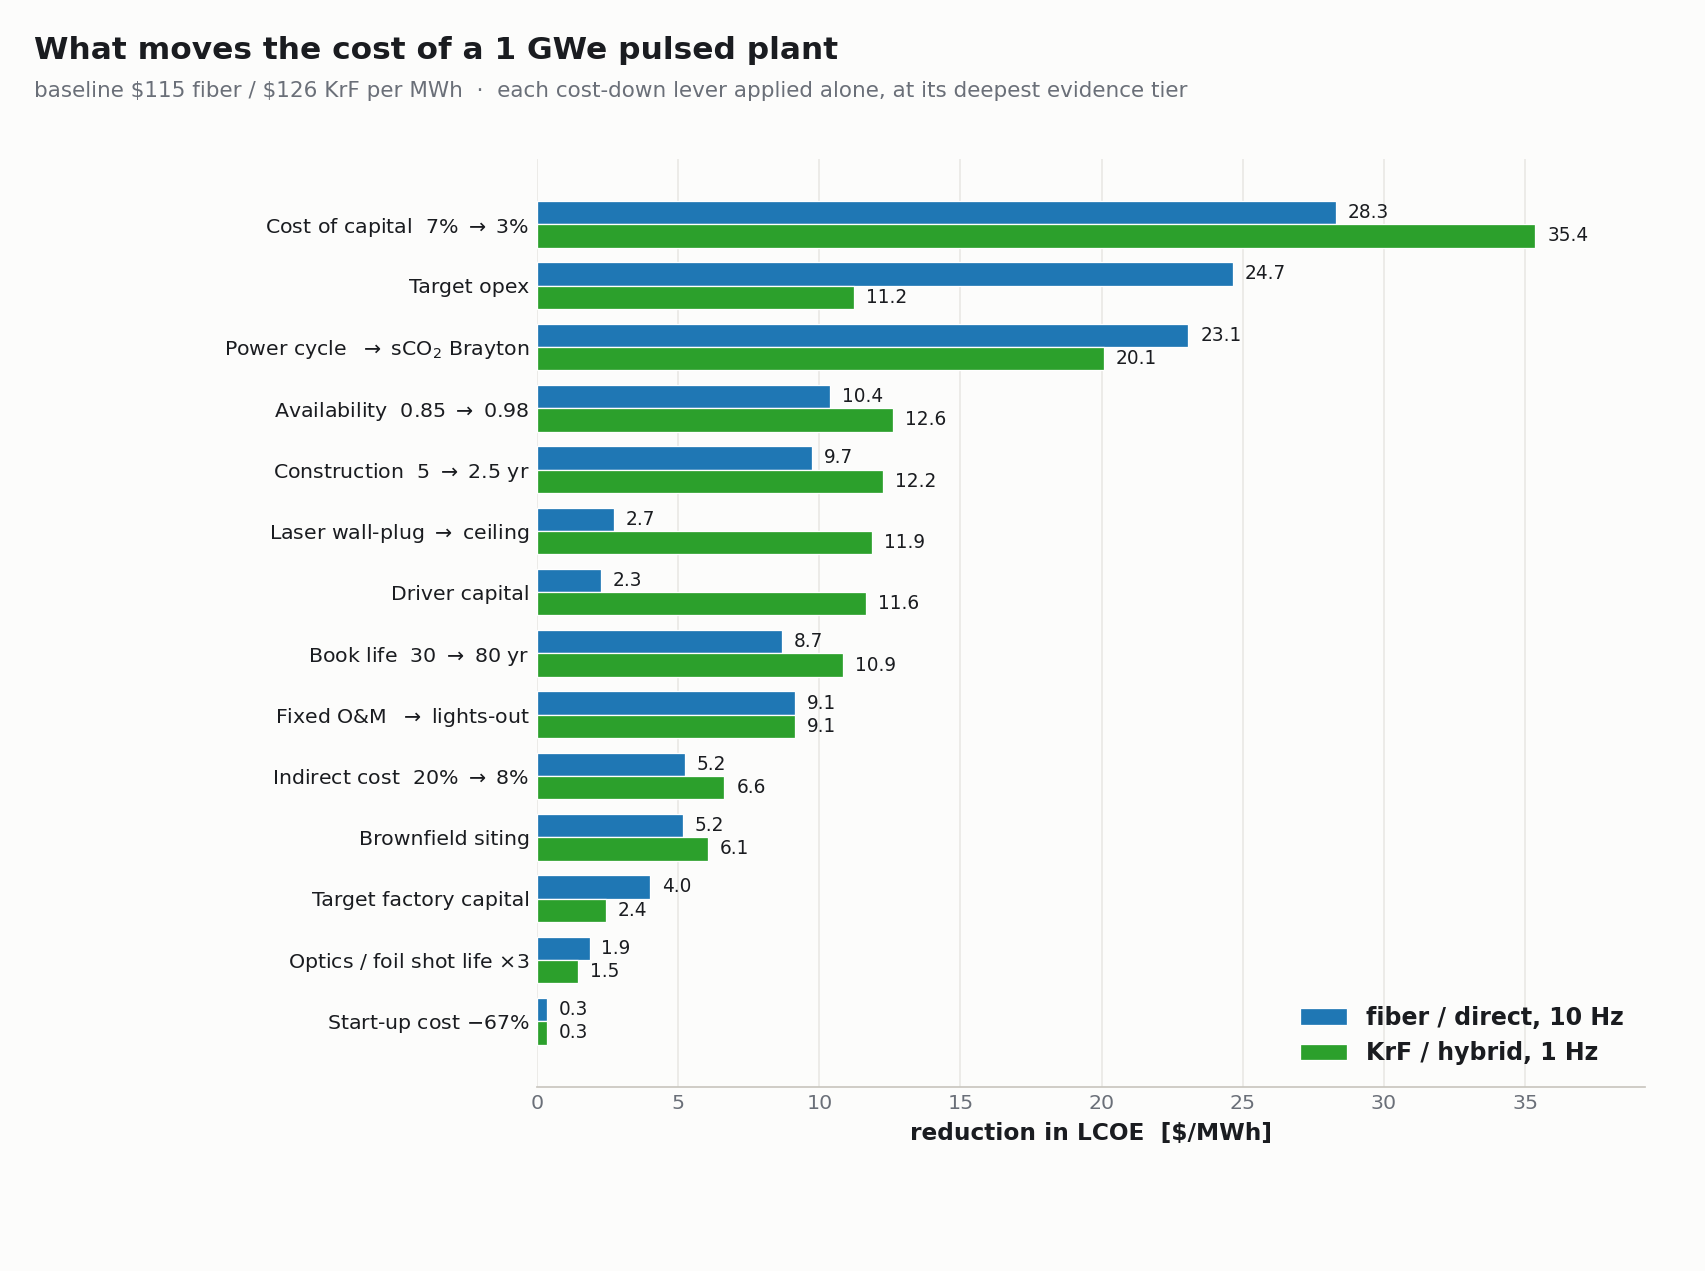
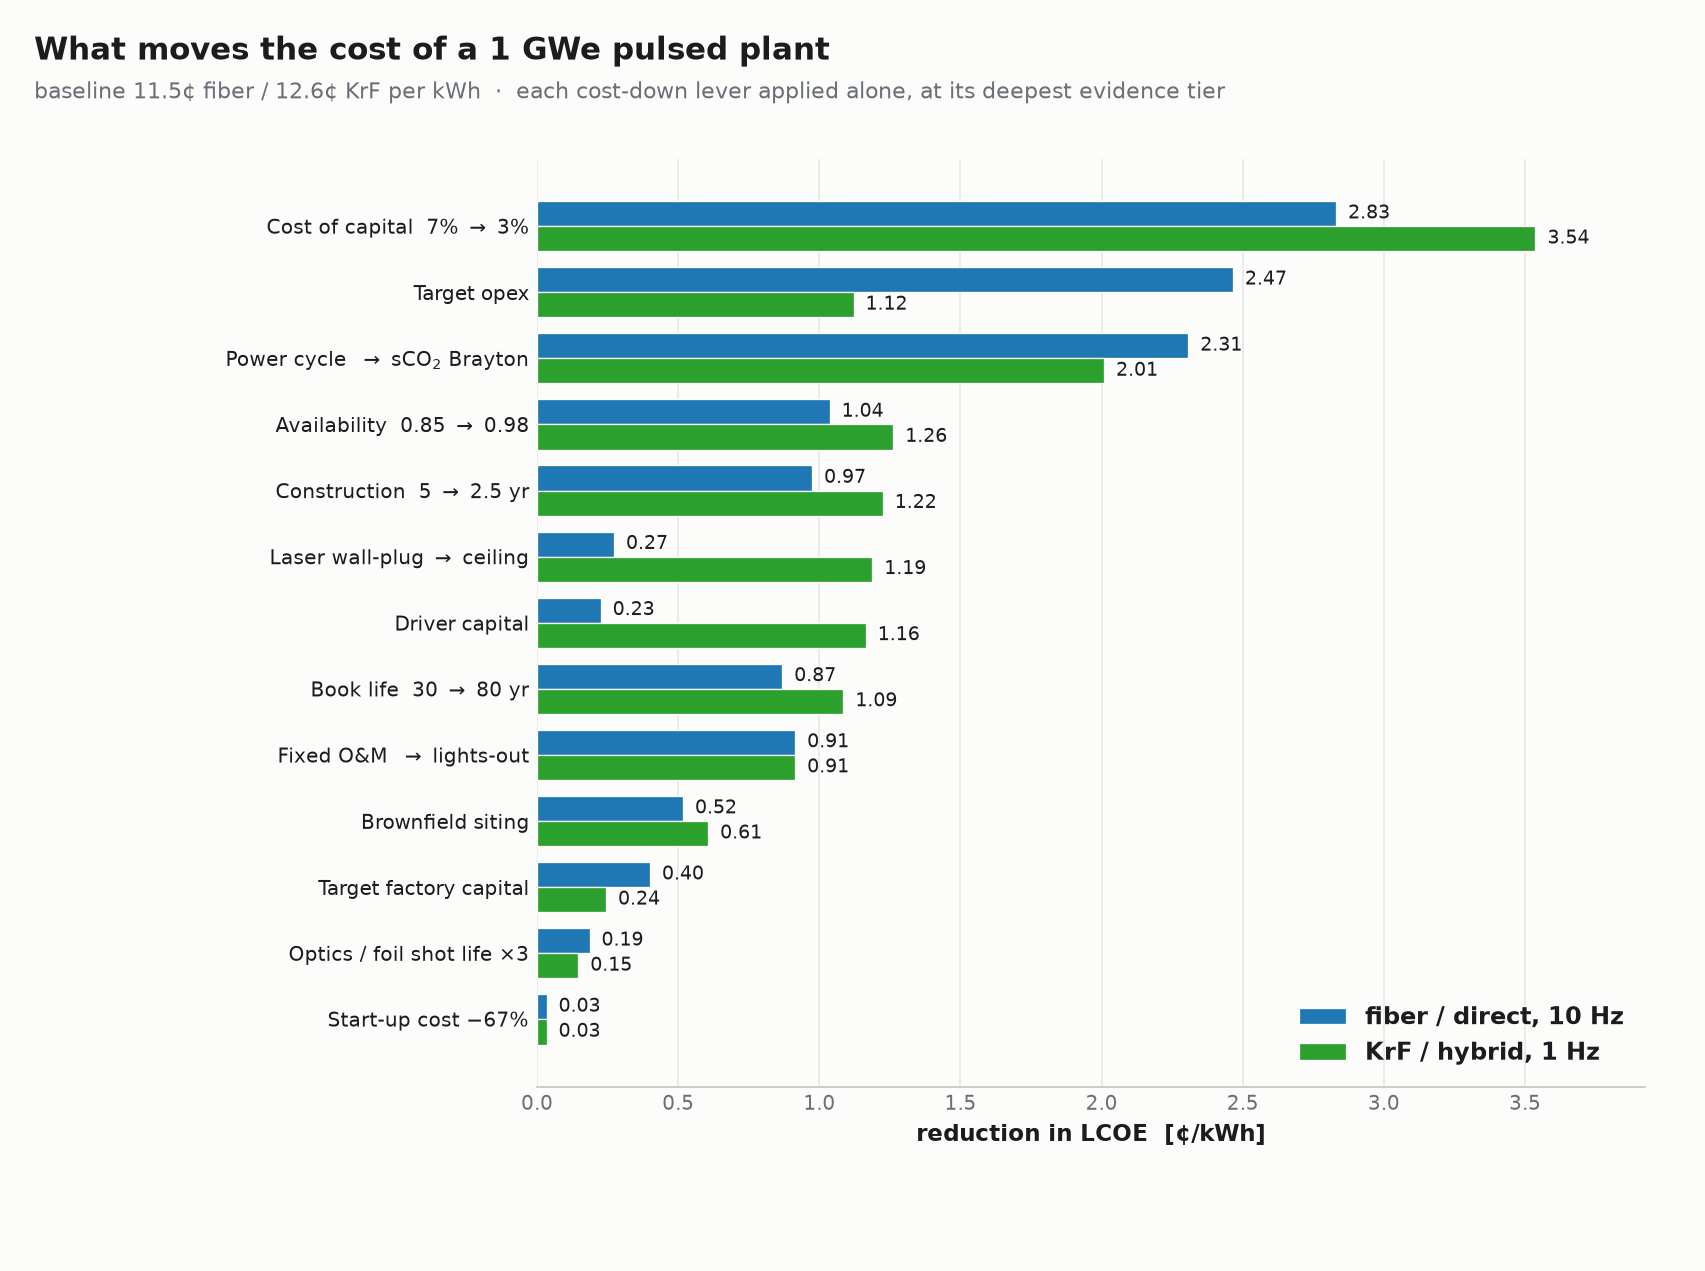
Match the published article: indirects held at 20% nominal, tier-3 lights-out O&M, regenerated results and figures
Per the 30 September publication check. See the PR description for the itemized changes.

diff --git a/tier_ladder_figs.py b/tier_ladder_figs.py
@@ -16,6 +16,9 @@ Tier vocabulary follows the approved cost-down lever table:
 Reads corridor_tiers.json.  Writes:
   mature_tier_ladder.png / pulsed_tier_ladder.png / revenue_tier_ladder.png
 """
+import os as _os, sys as _sys
+_sys.path.insert(0, _os.path.dirname(_os.path.abspath(__file__)))
+_sys.path.insert(0, _os.environ.get("COSTINGFE_SRC", "1costingfe/src"))
 import sys, types
 sys.modules.setdefault("plistlib", types.ModuleType("plistlib"))
 
@@ -37,7 +40,23 @@ TIERS = ["0: design basis", "1: applicable record",
 DOT, MINUS, SUB2, TIMES = "·", "−", "₂", "×"
 
 
-def ladder(fname, title, sub, s1_label, s1, s2_label, s2, notes, ymax=None):
+def ladder(fname, title, sub, s1_label, s1, s2_label, s2, notes, ymax=None,
+           cents=False):
+    """cents=True plots in ¢/kWh instead of $/MWh (1 ¢/kWh == $10/MWh).
+
+    The corridor model works in $/MWh throughout, so the conversion happens
+    here at the plotting boundary only -- corridor_tiers.json stays canonical
+    and the other two corridors keep their $/MWh axis untouched.
+    """
+    scale = 0.1 if cents else 1.0
+    s1 = [v * scale for v in s1]
+    s2 = [v * scale for v in s2]
+    target = TARGET * scale
+    ylabel = "LCOE  [¢/kWh]" if cents else "LCOE  [$/MWh]"
+    # ~1-13 ¢/kWh needs a second decimal to keep the tiers distinguishable
+    vfmt = ",.2f" if cents else ",.1f"
+    tlabel = "1 ¢/kWh" if cents else "1 ¢/kWh\n($10/MWh)"
+
     fig, ax = plt.subplots(figsize=(13.2, 6.0))
     fig.patch.set_facecolor(SURFACE)
     ax.set_facecolor(SURFACE)
@@ -54,14 +73,14 @@ def ladder(fname, title, sub, s1_label, s1, s2_label, s2, notes, ymax=None):
             off = hi * 0.015
             ax.text(bar.get_x() + bar.get_width() / 2,
                     v + off if v >= 0 else v - off * 2.4,
-                    f"{v:,.1f}", ha="center",
+                    format(v, vfmt), ha="center",
                     va="bottom" if v >= 0 else "top",
                     fontsize=11.5, color=INK, fontweight="600", zorder=4)
 
     # target line, with a left gutter opened up so its label never sits on a bar
     ax.set_xlim(-0.92, len(TIERS) - 0.5)
-    ax.axhline(TARGET, ls="--", lw=1.1, color="#b8891f", zorder=2)
-    ax.text(-0.88, TARGET + hi * 0.014, "1 ¢/kWh\n($10/MWh)", fontsize=10,
+    ax.axhline(target, ls="--", lw=1.1, color="#b8891f", zorder=2)
+    ax.text(-0.88, target + hi * 0.014, tlabel, fontsize=10,
             color="#b8891f", ha="left", va="bottom", zorder=5, linespacing=1.35)
     if lo < 0:
         ax.axhline(0, lw=0.9, color=RULE, zorder=2)
@@ -75,7 +94,7 @@ def ladder(fname, title, sub, s1_label, s1, s2_label, s2, notes, ymax=None):
         ax.text(i, -0.125, n, transform=tr, ha="center", va="top",
                 fontsize=9.6, color=MUTED, linespacing=1.6)
 
-    ax.set_ylabel("LCOE  [$/MWh]", fontsize=12.5, color=INK, fontweight="600")
+    ax.set_ylabel(ylabel, fontsize=12.5, color=INK, fontweight="600")
     ax.set_ylim(lo * 1.35 if lo < 0 else 0, hi)
     ax.set_title(title, fontsize=16, color=INK, fontweight="600", loc="left", pad=20)
     ax.text(0, 1.018, sub, transform=ax.transAxes, fontsize=11.5, color=MUTED,
@@ -102,12 +121,10 @@ def ladder(fname, title, sub, s1_label, s1, s2_label, s2, notes, ymax=None):
 # Tier 1 carries no cost-of-capital record, so the 7% design basis is held there.
 NOTE_T1 = (f"no WACC record (7% held)\n"
            f"0.92 avail {DOT} 60 yr life {DOT} 5 yr build\n"
-           f"16% indirect {DOT} O&M {MINUS}31%")
+           f"16.7% eff. indirect {DOT} O&M {MINUS}31%")
 
-# Trimmed for this repository: the shared engine in corridor_tiers.py also
-# draws the mature and alternate-revenue ladders, which live in their own
-# repos.  The revenue ladder there is the superseded two-series version.
-
+# Trimmed for this repository: the shared engine also draws the other
+# corridors' ladders, which live in their own repositories.
 # --------------------------------------------------------------- pulsed power
 P = D["pulsed"]
 ladder(
@@ -120,9 +137,11 @@ ladder(
     ["as-designed drivers,\ncommercial economics",
      NOTE_T1,
      f"5% WACC {DOT} 0.95 avail {DOT} 80 yr life\n"
-     f"3.25 yr build {DOT} sCO{SUB2} {DOT} 12% indirect\n"
+     f"3.25 yr build {DOT} sCO{SUB2} {DOT} 10.8% eff. indirect\n"
      f"half-step driver + targets",
      f"3% WACC {DOT} 0.98 avail {DOT} 2.5 yr build\n"
-     f"8% indirect {DOT} optics {TIMES}3\n"
+     f"8.3% eff. indirect {DOT} optics {TIMES}3\n"
      f"targets {MINUS}90%/{MINUS}50% {DOT} 10 FTE"],
+    cents=True,
 )
+

diff --git a/pulsed_tornado_plot.py b/pulsed_tornado_plot.py
@@ -53,7 +53,6 @@ def rows_for(c):
         ("Book life  30 $\\rightarrow$ 80 yr",           delta(c, life=80.0)),
         ("Construction  5 $\\rightarrow$ 2.5 yr",        delta(c, constr=2.5)),
         ("Availability  0.85 $\\rightarrow$ 0.98",       delta(c, av=0.98)),
-        ("Indirect cost  20% $\\rightarrow$ 8%",         delta(c, indir=0.08)),
         ("Fixed O&M  $\\rightarrow$ lights-out",         delta(c, om=0.0855)),
         ("Brownfield siting",                            delta(c, bld=0.65, elec=0.40, hr=0.60)),
         ("Power cycle  $\\rightarrow$ sCO$_2$ Brayton",  delta(c, sco2=True)),
@@ -66,7 +65,12 @@ def rows_for(c):
     ]
 
 
-data = {c: rows_for(c) for c, _, _ in CONCEPTS}
+# The corridor model works in $/MWh; this dispatch reports ¢/kWh, so every
+# delta and baseline is converted once here at the plotting boundary.
+# 1 ¢/kWh == $10/MWh.
+CENTS = 0.1
+
+data = {c: [(lab, v * CENTS) for lab, v in rows_for(c)] for c, _, _ in CONCEPTS}
 labels = [r[0] for r in data["BLF"]]
 order = sorted(range(len(labels)),
                key=lambda i: max(data[c][i][1] for c, _, _ in CONCEPTS))
@@ -86,14 +90,14 @@ for k, (c, lab, col) in enumerate(CONCEPTS):
             color=col, edgecolor="white", linewidth=0.6, zorder=3)
     span = max(max(v for _, v in data[cc]) for cc, _, _ in CONCEPTS)
     for i, v in enumerate(vals):
-        ax.text(v + span * 0.012, i + off, f"{v:.1f}", va="center", ha="left",
+        ax.text(v + span * 0.012, i + off, f"{v:.2f}", va="center", ha="left",
                 fontsize=8.6, color=INK)
 
 ax.set_yticks(range(len(labels)))
 ax.set_yticklabels(labels, fontsize=9.8, color=INK)
 span = max(max(v for _, v in data[c]) for c, _, _ in CONCEPTS)
 ax.set_xlim(0, span * 1.11)
-ax.set_xlabel("reduction in LCOE  [\\$/MWh]", fontsize=10.8, color=INK, fontweight="600")
+ax.set_xlabel("reduction in LCOE  [¢/kWh]", fontsize=10.8, color=INK, fontweight="600")
 ax.grid(axis="x", color=RULE, alpha=.35, zorder=0)
 ax.set_axisbelow(True)
 for s in ("top", "right", "left"):
@@ -109,16 +113,18 @@ for t in leg.get_texts():
 fig.text(0.02, 0.972, "What moves the cost of a 1 GWe pulsed plant",
          fontsize=14.5, color=INK, ha="left", va="top", fontweight="600")
 fig.text(0.02, 0.936,
-         f"baseline \\${base('BLF'):.0f} fiber / \\${base('Xcimer'):.0f} KrF per MWh  ·  "
+         f"baseline {base('BLF') * CENTS:.1f}¢ fiber / "
+         f"{base('Xcimer') * CENTS:.1f}¢ KrF per kWh  ·  "
          "each cost-down lever applied alone, at its deepest evidence tier",
          fontsize=10, color=MUTED, ha="left", va="top")
 
 fig.savefig("figures/pulsed_tornado.png", dpi=155, facecolor=SURFACE)
 print(f"wrote figures/pulsed_tornado.png")
-print(f"  baseline  fiber ${base('BLF'):.2f}   KrF ${base('Xcimer'):.2f}\n")
-print(f"  {'lever':<40}{'fiber':>9}{'KrF':>9}")
+print(f"  baseline  fiber {base('BLF') * CENTS:.3f} c/kWh"
+      f"   KrF {base('Xcimer') * CENTS:.3f} c/kWh\n")
+print(f"  {'lever  [c/kWh reduction]':<40}{'fiber':>9}{'KrF':>9}")
 for i in reversed(order):
     lab = data['BLF'][i][0]
     clean = (lab.replace("$_2$", "2").replace("$\\rightarrow$", "->")
                 .replace("$\\times$", "x").replace("$-$", "-"))
-    print(f"  {clean:<40}{data['BLF'][i][1]:>9.1f}{data['Xcimer'][i][1]:>9.1f}")
+    print(f"  {clean:<40}{data['BLF'][i][1]:>9.2f}{data['Xcimer'][i][1]:>9.2f}")

diff --git a/corridor_tiers.py b/corridor_tiers.py
@@ -20,6 +20,9 @@ Models
 
 Writes corridor_tiers.json and prints the ladder tables.
 """
+import os as _os, sys as _sys
+_sys.path.insert(0, _os.path.dirname(_os.path.abspath(__file__)))
+_sys.path.insert(0, _os.environ.get("COSTINGFE_SRC", "1costingfe/src"))
 import io
 import json
 import contextlib
@@ -57,14 +60,23 @@ def coil_mult(rebco, planar=False, concept="stellarator"):
 # lever names.  See the markdown appendices for the citation behind each entry.
 # Each stop is the best value some real project has held at that grade; see the
 # markdown appendices for the citation behind every entry.
+#
+# Indirects are the exception: the nominal fraction is held at the NETL 20% at
+# every rung and only the build time moves what is actually charged, because
+# CAS30 = fraction x CAS20 x (construction_time / 6 yr) already carries the
+# schedule.  Effective shares are 20% at a 6 yr build, 16.7% at 5 yr, 10.8% at
+# 3.25 and 8.3% at 2.5 -- the same convention as the aneutronic studies.
 T1_REC = {"av": 0.92, "life": 60.0, "constr": 5.0,
-          "indir": 0.16, "om": 0.69}
-T2_EXT = {"wacc": 0.05, "indir": 0.12,
+          "indir": 0.20, "om": 0.69}
+T2_EXT = {"wacc": 0.05, "indir": 0.20,
           "av": 0.95, "life": 80.0, "constr": 3.25, "flu": 2.0,
           "om": 0.45}
 # Brownfield siting is a scenario choice, not an evidence grade: one package
 # (buildings, interconnection, heat rejection) that the tier-3 preset adopts.
-T3_SPEC = {"wacc": 0.03, "indir": 0.08,
+# Tier 3 also replaces the fleet-staffing O&M step with lights-out operation
+# (~10 FTE, fixed O&M x 0.0855), the same ruling the pulsed ladder (PT3) makes,
+# so the two D-T ladders and the byproduct plant ladder share one convention.
+T3_SPEC = {"wacc": 0.03, "indir": 0.20, "om": 0.0855,
            "av": 0.98, "constr": 2.5, "flu": 3.0, "disr": 0.167,
            "bld": 0.65, "elec": 0.40, "hr": 0.60}
 
@@ -143,19 +155,19 @@ def plcoe(concept, ri, L, eta_f, wear_f):
 
 
 PT1 = {"av": 0.92, "life": 60.0, "constr": 5.0,
-       "indir": 0.16, "om": 0.69}
+       "indir": 0.20, "om": 0.69}
 # Driver capital, target factory and target opex have a sourced baseline and a
 # sourced endpoint but nothing in between, so the tier-2 value is simply the
 # midpoint of the two -- an increment between baseline and ceiling, not a
 # separately sourced operating point.  Same convention as the wall-plug and
 # shot-life increments above.
-PT2 = {"wacc": 0.05, "indir": 0.12,
+PT2 = {"wacc": 0.05, "indir": 0.20,
        "av": 0.95, "life": 80.0, "constr": 3.25,
        "sco2": True, "om": 0.45, "tfac": 0.825,
        "drv": {"BLF": 0.834, "Xcimer": 0.813},
        "tgt": {"BLF": 0.55, "Xcimer": 0.75}}
 # tier 3 replaces the fleet-staffing O&M step with lights-out operation (~10 FTE)
-PT3 = {"wacc": 0.03, "indir": 0.08,
+PT3 = {"wacc": 0.03, "indir": 0.20,
        "av": 0.98, "constr": 2.5, "om": 0.0855, "tfac": 0.65,
        "drv": {"BLF": 0.667, "Xcimer": 0.625},
        "tgt": {"BLF": 0.10, "Xcimer": 0.50},

diff --git a/ct_tornado.py b/ct_tornado.py
@@ -7,6 +7,9 @@ Reproduces the reduced-CAS model of mature_corridor_report.py, with two changes:
   * first-wall life is charged on PEAK wall load (q_n_peak), not the plant
     average, so CAS72 is no longer over-credited by the peaking factor.
 """
+import os as _os, sys as _sys
+_sys.path.insert(0, _os.path.dirname(_os.path.abspath(__file__)))
+_sys.path.insert(0, _os.environ.get("COSTINGFE_SRC", "1costingfe/src"))
 import json, math
 
 D = json.load(open("ct_corridor_data.json"))
@@ -25,7 +28,7 @@ M = dict(inflation=0.02, fluence=18.0, indir=0.2, ref_constr=6.0, ref_p=1000.0,
 AGG = dict(wacc=0.03, life=60.0, indir=0.10, constr=3.0, av=0.95, flu=3.0,
            disr=0.167, coil=0.60, heat=0.40, fw=0.70, shield=0.70, vessel=0.60,
            assembly=0.65, rh=0.55, fuelh=0.65, coolant=0.60, iandc=0.60,
-           startup=0.33, bld=0.65, elec=0.40, hr=0.60, om=0.45, ins=0.33,
+           startup=0.33, bld=0.65, elec=0.40, hr=0.60, om=0.0855, ins=0.33,
            decom=0.50)
 BASE = dict(wacc=M["wacc"], life=M["life"], indir=M["indir"], constr=None,
             av=M["av"], flu=1.0, disr=1.0, coil=1.0, heat=1.0, fw=1.0,
@@ -42,7 +45,7 @@ LABEL = dict(wacc="WACC 7%->3%", life="Plant life 30->60 yr",
              fuelh="Tritium plant -35%", coolant="Coolant loops -40%",
              iandc="I&C -40%", startup="Start-up cost -67%",
              bld="Buildings -35%", elec="Electrical plant -60%",
-             hr="Heat rejection -40%", om="O&M -55%", ins="Insurance -67%",
+             hr="Heat rejection -40%", om="O&M -91%", ins="Insurance -67%",
              decom="Decommissioning -50%")
 
 

diff --git a/README.md b/README.md
@@ -16,12 +16,14 @@ KrF/hybrid concept in the consumable.
 | Evidence tier | fiber / direct, 10 Hz | KrF / hybrid, 1 Hz |
 |---|---|---|
 | 0 · design baseline | $115.4 | $125.5 |
-| 1 · applicable record | $97.8 | $104.5 |
-| 2 · extrapolation with a known mechanism | $46.7 | $52.0 |
-| 3 · speculation, no mechanism | **$21.1** | **$26.8** |
+| 1 · applicable record | $99.2 | $106.3 |
+| 2 · extrapolation with a known mechanism | $47.6 | $53.1 |
+| 3 · speculation, no mechanism | **$21.7** | **$27.4** |
 
 All figures $/MWh. Neither configuration reaches the 1 ¢/kWh ($10/MWh) target, and both
 clear $20/MWh only on full speculation.
+
+One convention was brought to the published article on 30 September 2026. The nominal indirect-cost fraction is held at the NETL 20% on every rung and only the build time moves what is charged (CAS30 = fraction × CAS20 × build / 6 yr, so 20 / 16.7 / 10.8 / 8.3% effective at 6 / 5 / 3.25 / 2.5 years), the convention the aneutronic studies use; the earlier 20 / 16 / 12 / 8% ladder charged the schedule twice. The design basis is costed at the current wall-plug efficiencies, 20% fiber and 7% KrF (`eta_source` defaults), and the ladder lifts them to the published ceilings, 25% and 10%, at the speculation tier. Tier 3 already priced lights-out operation (fixed O&M × 0.0855) here; the mature corridor now does the same.
 
 ## Reproducing
 
@@ -45,9 +47,9 @@ python pulsed_tornado_plot.py       # figures/pulsed_tornado.png
 PULSED POWER  --  fiber/direct at 10 Hz and KrF/hybrid at 1 Hz, 1 GWe
 rung                    fiber/direct    KrF/hybrid
 0: design baseline             115.4         125.5
-1: records                      97.8         104.5
-2: extrapolations               46.7          52.0
-3: speculation                  21.1          26.8
+1: records                      99.2         106.3
+2: extrapolations               47.6          53.1
+3: speculation                  21.7          27.4
 ```
 
 To re-derive the underlying cost points rather than use the committed datasets, you need
